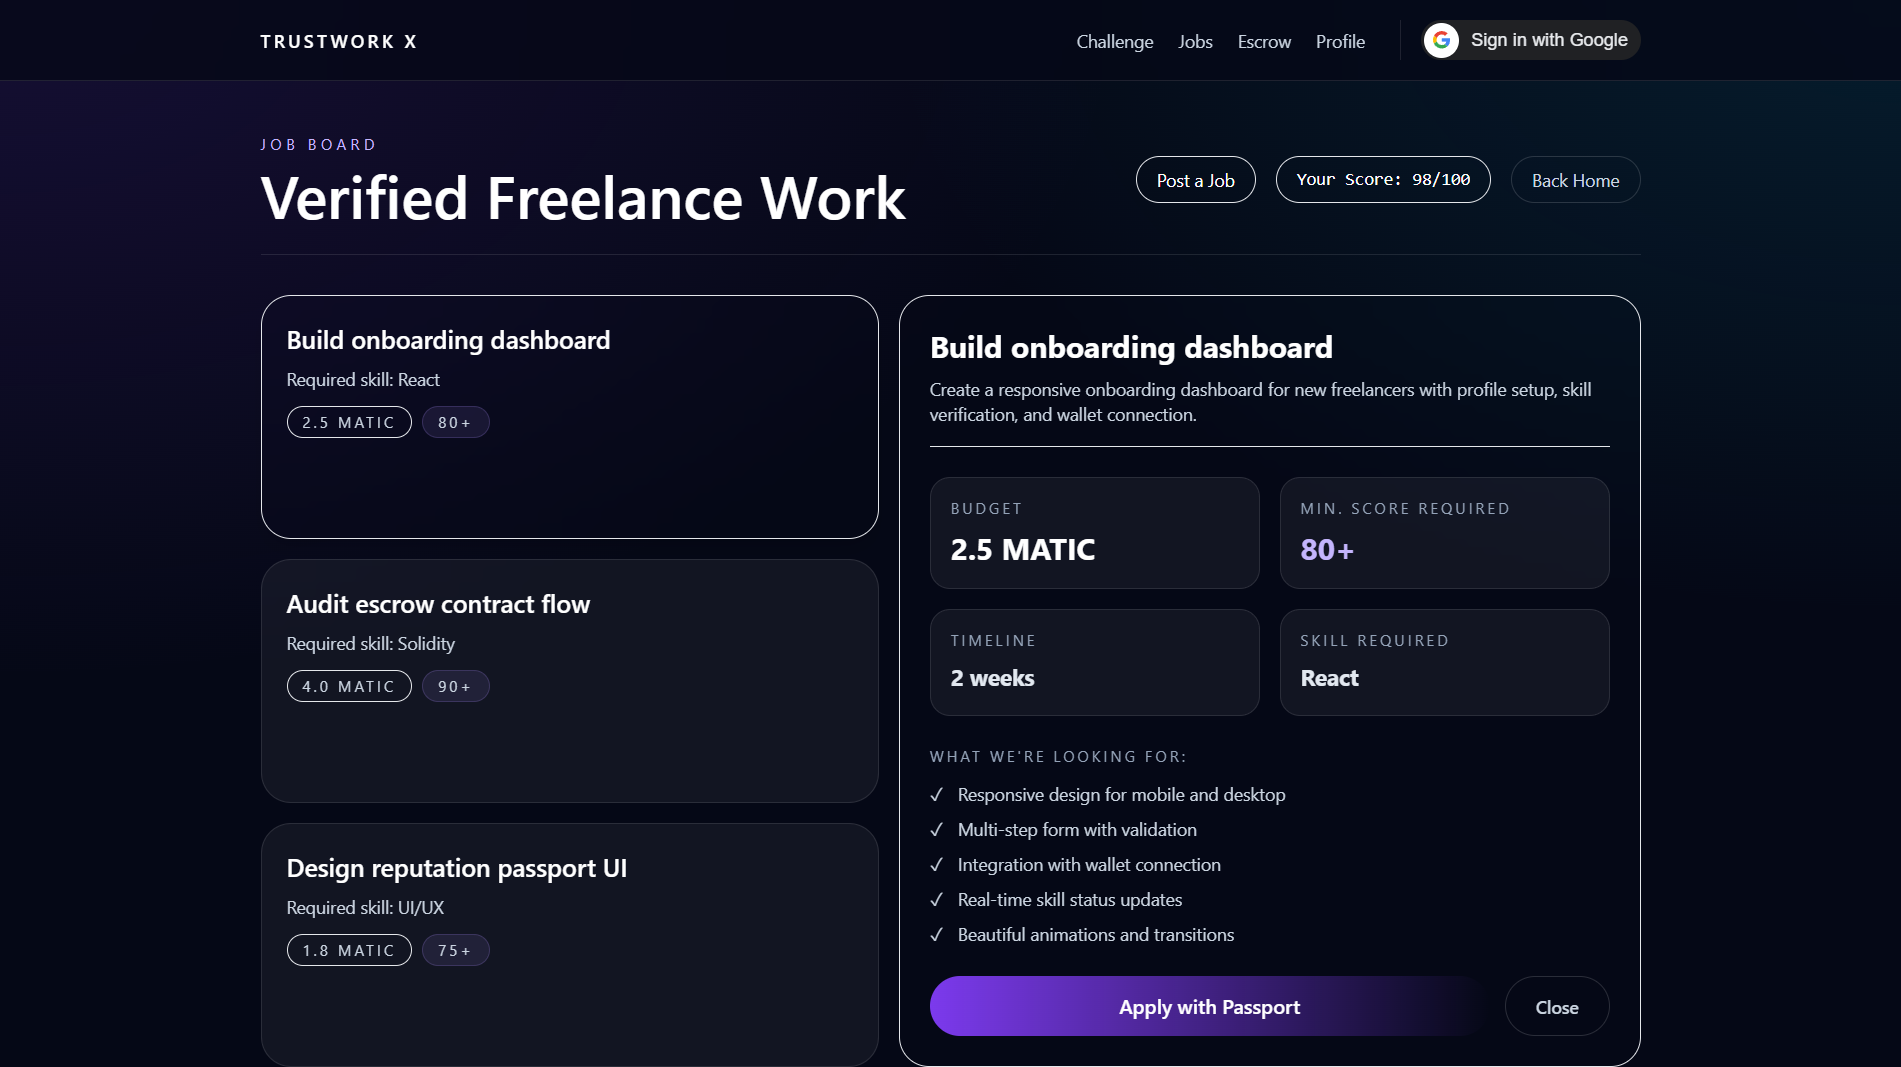
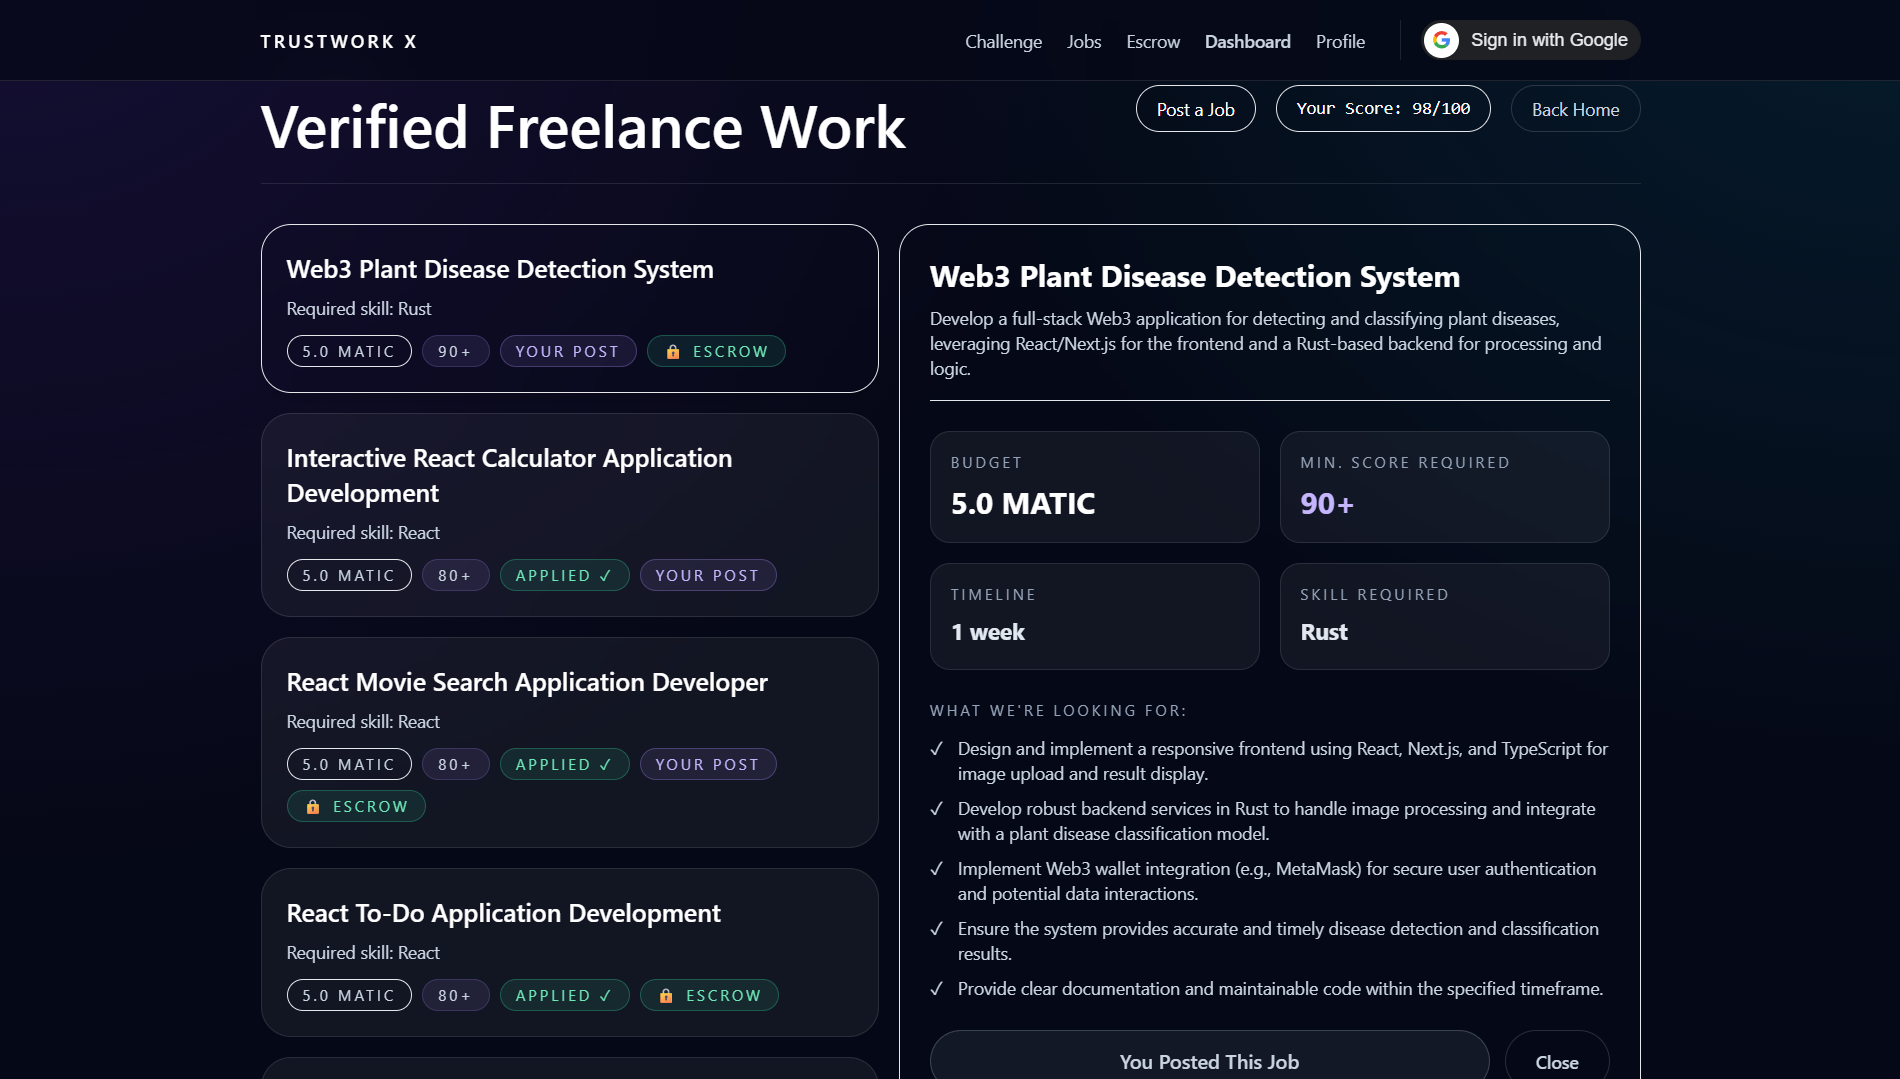
docs: add new freelancer and client dashboard view screenshots to README

diff --git a/README.md b/README.md
@@ -26,6 +26,14 @@ View your minted skills and manage your decentralized identity.
 Apply to high-quality jobs directly with your verified on-chain score.
 ![Apply Flow](./ui/Apply.png)
 
+### Interactive Dashboard
+Switch seamlessly between managing your freelance jobs and client escrow contracts.
+#### Freelancer View
+![Freelancer Dashboard](./ui/Freelancer%20View.png)
+
+#### Client View
+![Client Dashboard](./ui/Client%20View.png)
+
 ---
 
 ## 🚀 Key Features
